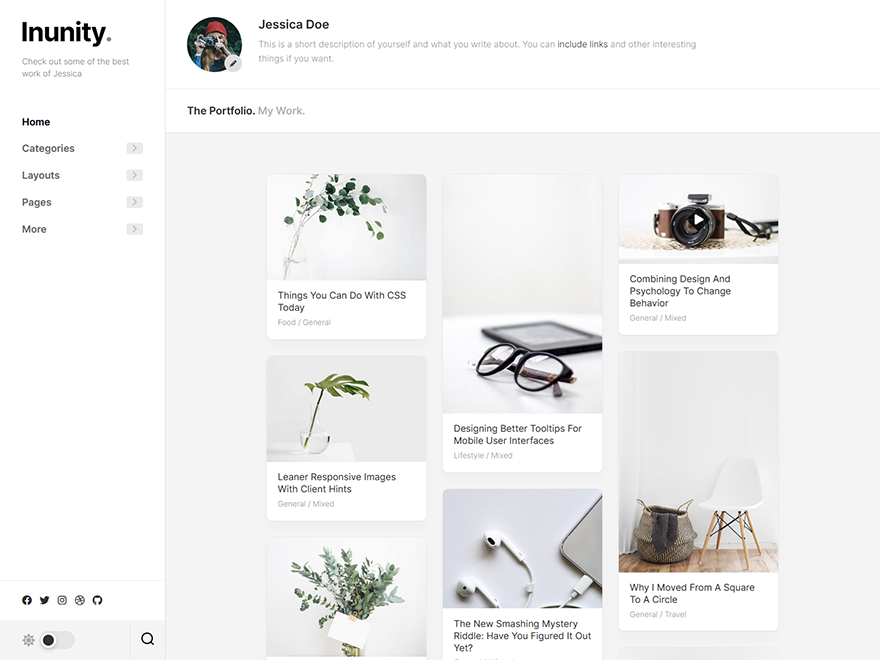
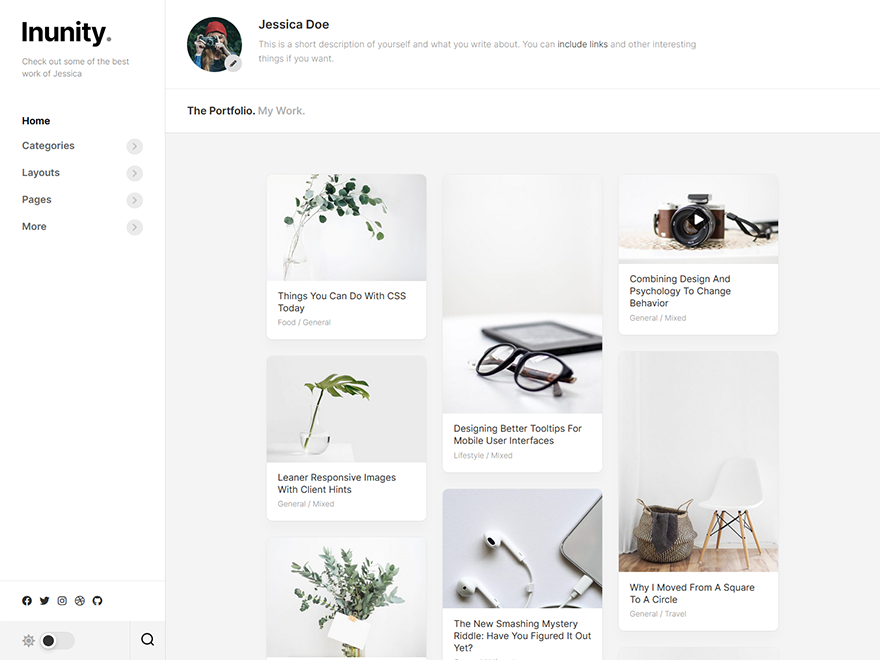
Update screenshot and dropdown arrows

diff --git a/style.css b/style.css
@@ -869,7 +869,8 @@ body.dark #theme-toggle-btn:before { background: rgba(255,255,255,0.6); border-c
 	
 	.nav-menu:not(.mobile) { float: right; }
 	.nav-menu:not(.mobile) .menu > li { width: 100%; }
-	.nav-menu:not(.mobile) button { background: rgba(0,0,0,0.08); padding: 0 8px; }
+	.nav-menu:not(.mobile) .menu > li > span > a { line-height: 1.4em; }
+	.nav-menu:not(.mobile) button { background: rgba(0,0,0,0.08); padding: 4px 8px; border-radius: 20px; }
 	.nav-menu:not(.mobile) button .svg-icon { transform: rotate(-90deg); top: -3px; }
 	.nav-menu:not(.mobile) .menu > li { margin: 0; }
 	.nav-menu:not(.mobile) .menu ul { font-size: 15px; top: 0; left: 290px; }
@@ -881,7 +882,7 @@ body.dark #theme-toggle-btn:before { background: rgba(255,255,255,0.6); border-c
 	.nav-menu:not(.mobile) .menu ul:after { border: 8px solid transparent; border-right-color: #333; left: -15px; top: 15px; }
 	.nav-menu:not(.mobile) .menu { margin: 0 -30px; }
 	.nav-menu:not(.mobile) .menu > li {  }
-	.nav-menu:not(.mobile) .menu > li > span { padding: 14px 30px; }
+	.nav-menu:not(.mobile) .menu > li > span { padding: 10px 30px; }
 
 }
 
